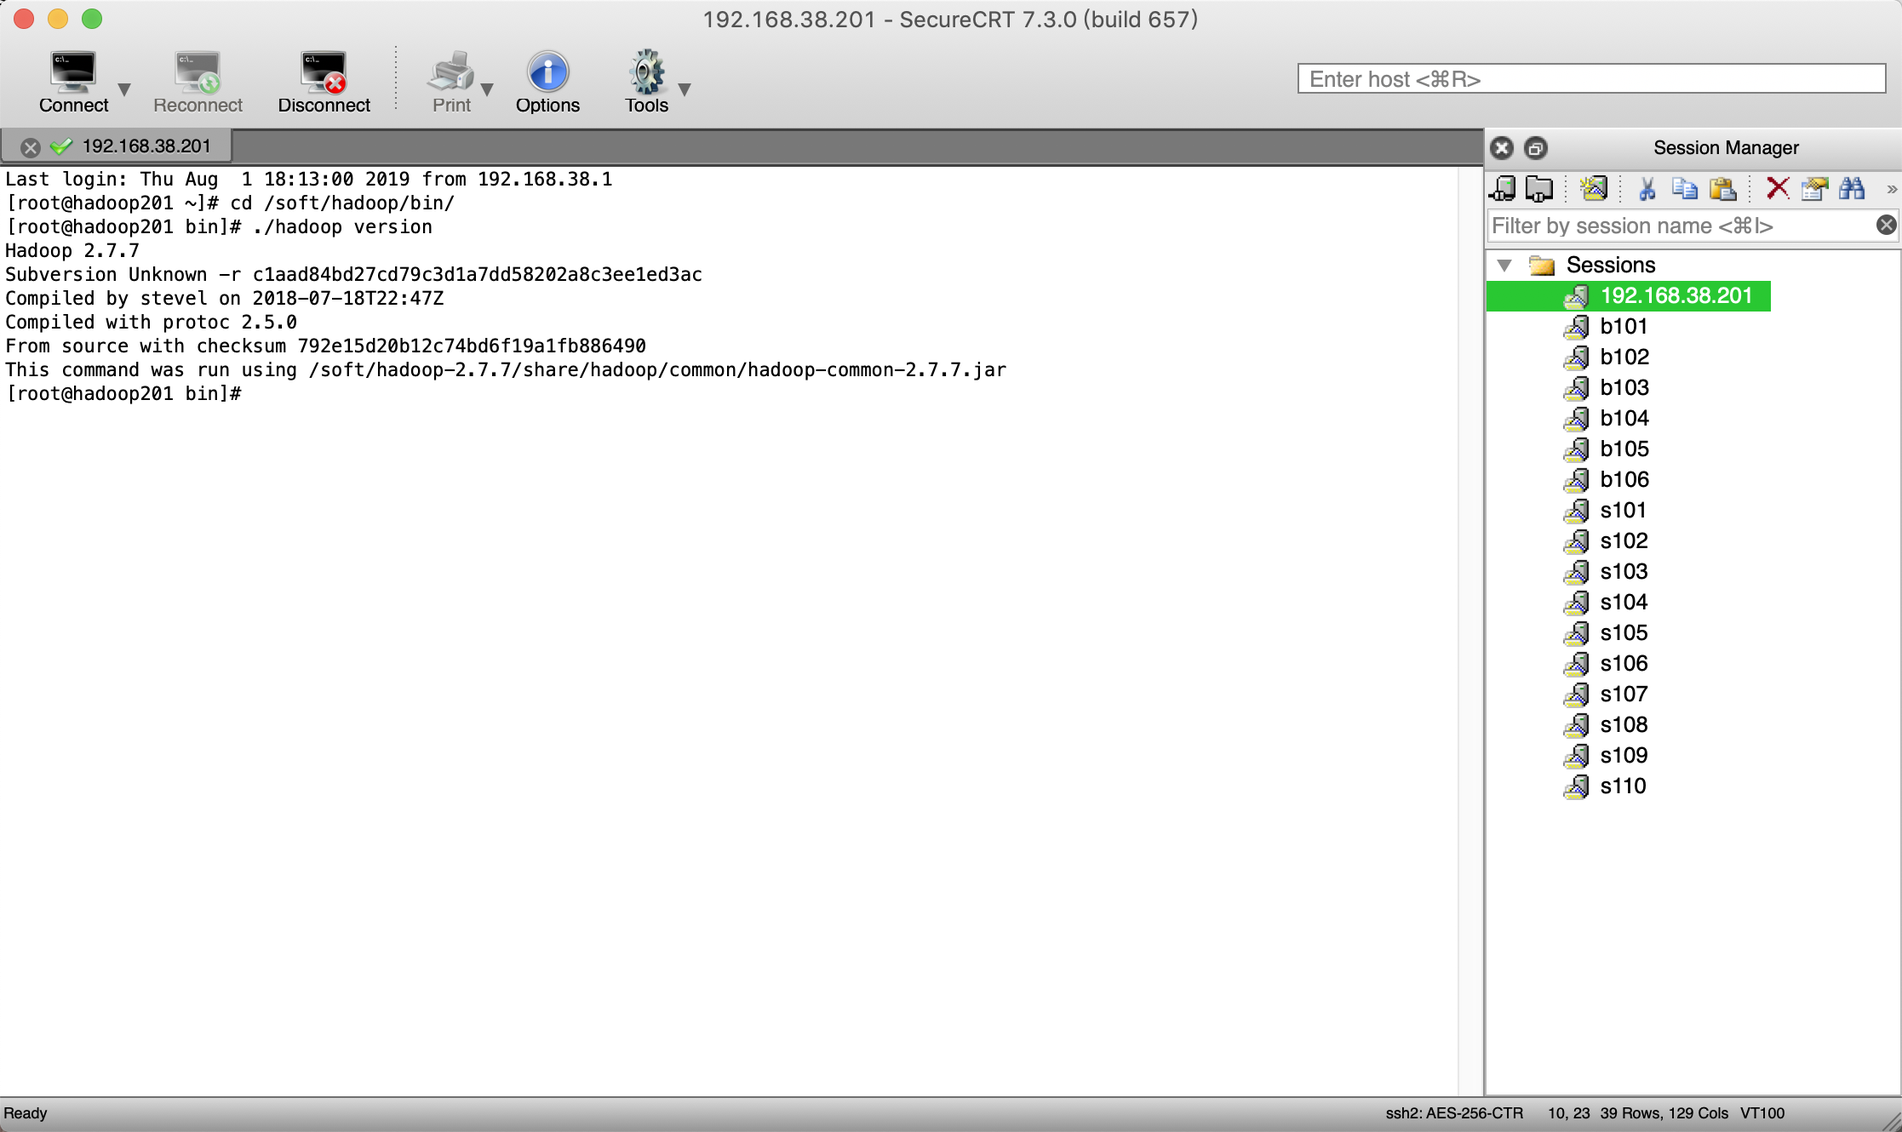
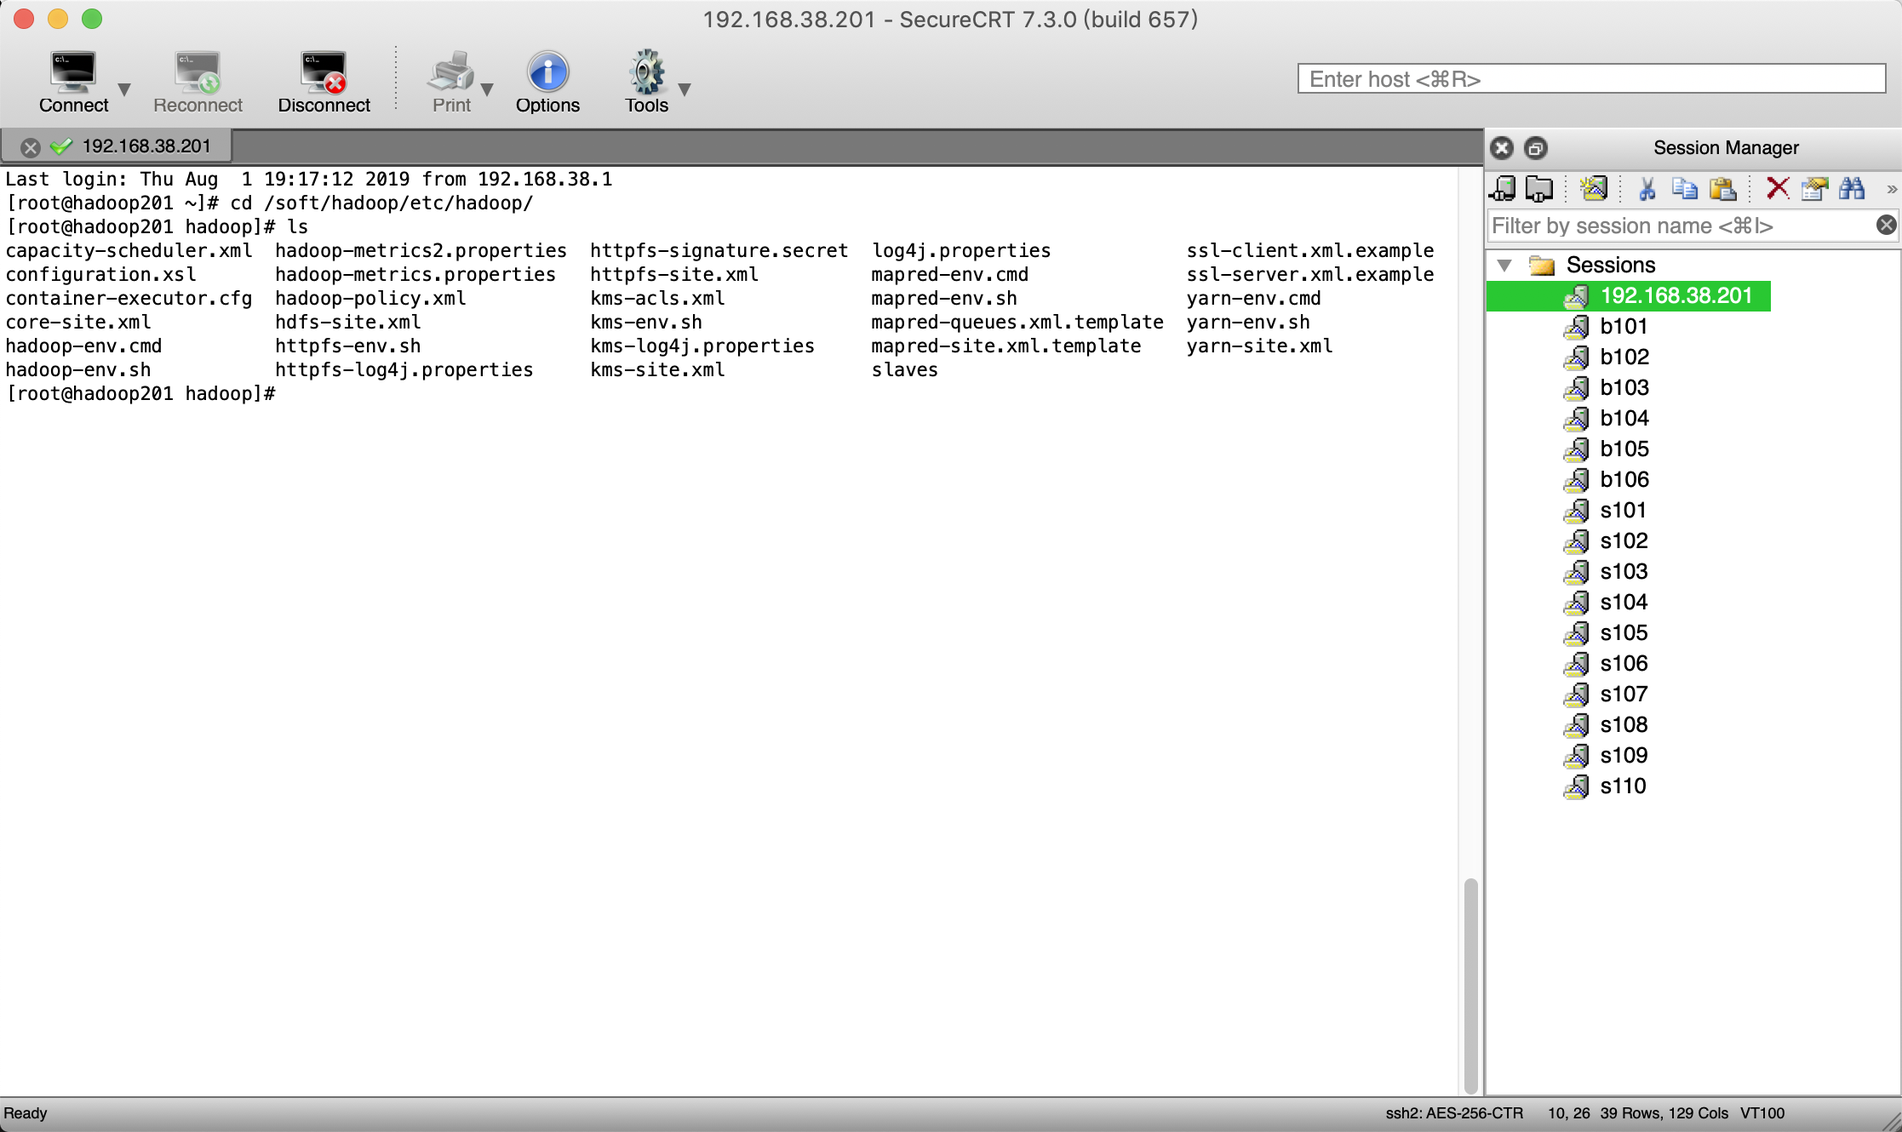
Site updated: 2019-09-05 21:20:32

Changed region(s): [[0.0, 0.1541, 0.7722, 0.3699], [0.7722, 0.7707, 0.803, 0.9556], [0.2162, 0.1541, 0.278, 0.185]]

diff --git a/2019/09/04/hadoop-4/index.html b/2019/09/04/hadoop-4/index.html
@@ -107,13 +107,13 @@
 
 
 
-<meta name="description" content="大数据处理平台Hadoop（四）Hadoop安装、单机模式及伪分布式通过上一章的介绍和学习，相信读者朋友们已经掌握了怎么用自己的电脑登录服务器，我们懂得了远程登录工具的作用，还有的是我们还进行了节点的jdk配置，使我们的服务器更加的完善了，下面这一章我们将来介绍一下hadoop的安装以及单机调试模式，伪分布式这几个点。同样的，你搭建的4台机器也要安装上hadoop环境。">
+<meta name="description" content="大数据处理平台Hadoop（四）Hadoop安装、单机模式及伪分布模式搭建通过上一章的介绍和学习，相信读者朋友们已经掌握了怎么用自己的电脑登录服务器，我们懂得了远程登录工具的作用，还有的是我们还进行了节点的jdk配置，使我们的服务器更加的完善了，下面这一章我们将来介绍一下hadoop的安装以及单机调试模式，伪分布式这几个点。同样的，你搭建的4台机器也要安装上hadoop环境。">
 <meta name="keywords" content="hadoop">
 <meta property="og:type" content="article">
 <meta property="og:title" content="hadoop-4">
 <meta property="og:url" content="https://chen-tzliang.github.io/2019/09/04/hadoop-4/index.html">
 <meta property="og:site_name" content="Czl的博客">
-<meta property="og:description" content="大数据处理平台Hadoop（四）Hadoop安装、单机模式及伪分布式通过上一章的介绍和学习，相信读者朋友们已经掌握了怎么用自己的电脑登录服务器，我们懂得了远程登录工具的作用，还有的是我们还进行了节点的jdk配置，使我们的服务器更加的完善了，下面这一章我们将来介绍一下hadoop的安装以及单机调试模式，伪分布式这几个点。同样的，你搭建的4台机器也要安装上hadoop环境。">
+<meta property="og:description" content="大数据处理平台Hadoop（四）Hadoop安装、单机模式及伪分布模式搭建通过上一章的介绍和学习，相信读者朋友们已经掌握了怎么用自己的电脑登录服务器，我们懂得了远程登录工具的作用，还有的是我们还进行了节点的jdk配置，使我们的服务器更加的完善了，下面这一章我们将来介绍一下hadoop的安装以及单机调试模式，伪分布式这几个点。同样的，你搭建的4台机器也要安装上hadoop环境。">
 <meta property="og:locale" content="zh-Hans">
 <meta property="og:image" content="https://chen-tzliang.github.io/about/hadoop4/1.png">
 <meta property="og:image" content="https://chen-tzliang.github.io/about/hadoop4/2.png">
@@ -123,10 +123,10 @@
 <meta property="og:image" content="https://chen-tzliang.github.io/about/hadoop4/7.png">
 <meta property="og:image" content="https://chen-tzliang.github.io/about/hadoop4/8.png">
 <meta property="og:image" content="https://chen-tzliang.github.io/about/hadoop4/9.png">
-<meta property="og:updated_time" content="2019-09-05T12:40:23.227Z">
+<meta property="og:updated_time" content="2019-09-05T13:18:10.458Z">
 <meta name="twitter:card" content="summary">
 <meta name="twitter:title" content="hadoop-4">
-<meta name="twitter:description" content="大数据处理平台Hadoop（四）Hadoop安装、单机模式及伪分布式通过上一章的介绍和学习，相信读者朋友们已经掌握了怎么用自己的电脑登录服务器，我们懂得了远程登录工具的作用，还有的是我们还进行了节点的jdk配置，使我们的服务器更加的完善了，下面这一章我们将来介绍一下hadoop的安装以及单机调试模式，伪分布式这几个点。同样的，你搭建的4台机器也要安装上hadoop环境。">
+<meta name="twitter:description" content="大数据处理平台Hadoop（四）Hadoop安装、单机模式及伪分布模式搭建通过上一章的介绍和学习，相信读者朋友们已经掌握了怎么用自己的电脑登录服务器，我们懂得了远程登录工具的作用，还有的是我们还进行了节点的jdk配置，使我们的服务器更加的完善了，下面这一章我们将来介绍一下hadoop的安装以及单机调试模式，伪分布式这几个点。同样的，你搭建的4台机器也要安装上hadoop环境。">
 <meta name="twitter:image" content="https://chen-tzliang.github.io/about/hadoop4/1.png">
 
 
@@ -388,7 +388,7 @@
       
 
       
-        <h1 id="大数据处理平台Hadoop（四）"><a href="#大数据处理平台Hadoop（四）" class="headerlink" title="大数据处理平台Hadoop（四）"></a>大数据处理平台Hadoop（四）</h1><h2 id="Hadoop安装、单机模式及伪分布式"><a href="#Hadoop安装、单机模式及伪分布式" class="headerlink" title="Hadoop安装、单机模式及伪分布式"></a>Hadoop安装、单机模式及伪分布式</h2><p>通过上一章的介绍和学习，相信读者朋友们已经掌握了怎么用自己的电脑登录服务器，我们懂得了远程登录工具的作用，还有的是我们还进行了节点的jdk配置，使我们的服务器更加的完善了，下面这一章我们将来介绍一下hadoop的安装以及单机调试模式，伪分布式这几个点。同样的，你搭建的4台机器也要安装上hadoop环境。<a id="more"></a></p>
+        <h1 id="大数据处理平台Hadoop（四）"><a href="#大数据处理平台Hadoop（四）" class="headerlink" title="大数据处理平台Hadoop（四）"></a>大数据处理平台Hadoop（四）</h1><h2 id="Hadoop安装、单机模式及伪分布模式搭建"><a href="#Hadoop安装、单机模式及伪分布模式搭建" class="headerlink" title="Hadoop安装、单机模式及伪分布模式搭建"></a>Hadoop安装、单机模式及伪分布模式搭建</h2><p>通过上一章的介绍和学习，相信读者朋友们已经掌握了怎么用自己的电脑登录服务器，我们懂得了远程登录工具的作用，还有的是我们还进行了节点的jdk配置，使我们的服务器更加的完善了，下面这一章我们将来介绍一下hadoop的安装以及单机调试模式，伪分布式这几个点。同样的，你搭建的4台机器也要安装上hadoop环境。<a id="more"></a></p>
 <h3 id="hadoop的安装"><a href="#hadoop的安装" class="headerlink" title="hadoop的安装"></a>hadoop的安装</h3><p>在安装hadoop之前，我们需要准备好一些软件包，这里由于我学习的时候用的hadoop版本比较低，所以建议读者根据需要下载新的版本，不同的版本可能增加了不同的一些新的属性，这里在hadoop的安装时会给出hadoop软件包的下载网址，显然hadoop也是apache的产品。</p>
 <h3 id="hadoop的安装-1"><a href="#hadoop的安装-1" class="headerlink" title="hadoop的安装"></a>hadoop的安装</h3><p>1.下载hadoop-x.y.z.tar.gz</p>
 <p>网址：<a href="https://hadoop.apache.org/releases.html" target="_blank" rel="noopener">https://hadoop.apache.org/releases.html</a></p>
@@ -459,9 +459,20 @@
 <h3 id="hadoop的伪分布模式"><a href="#hadoop的伪分布模式" class="headerlink" title="hadoop的伪分布模式"></a>hadoop的伪分布模式</h3><p>运行：伪分布模式这种模式也是在一台单机上运行，但用不同的Java进程模仿分布式运行中的各类结点。</p>
 <p>配置：伪分布模式在“单节点集群”上运行Hadoop，其中所有的守护进程都运行在同一台机器上。</p>
 <p>交互：伪分布模式在单机模式之上增加了代码调试功能，允许你检查内存使用情况，HDFS输入输出，以及其他的守护进程交互</p>
-<h3 id="hadoop伪分布式的搭建"><a href="#hadoop伪分布式的搭建" class="headerlink" title="hadoop伪分布式的搭建"></a>hadoop伪分布式的搭建</h3><p>1.进入hadoop的配置目录<br><figure class="highlight plain"><table><tr><td class="gutter"><pre><span class="line">1</span><br><span class="line">2</span><br></pre></td><td class="code"><pre><span class="line">$&gt;cd /soft/hadoop/etc/hadoop</span><br><span class="line">$&gt;ls</span><br></pre></td></tr></table></figure></p>
+<h3 id="hadoop伪分布式的搭建-1"><a href="#hadoop伪分布式的搭建-1" class="headerlink" title="hadoop伪分布式的搭建(1)"></a>hadoop伪分布式的搭建(1)</h3><p>1.进入hadoop的配置目录<br><figure class="highlight plain"><table><tr><td class="gutter"><pre><span class="line">1</span><br><span class="line">2</span><br></pre></td><td class="code"><pre><span class="line">$&gt;cd /soft/hadoop/etc/hadoop</span><br><span class="line">$&gt;ls</span><br></pre></td></tr></table></figure></p>
 <p>2.配置core-site.xml</p>
+<p>core-site.xml文件是集群的全局参数，该文件是用于用于定义系统级别的参数，如HDFS URL 、Hadoop的临时目录等，下面我们配置的伪分布式只配置hdfs的url，至于其他的全局参数用的是默认的值。<br><figure class="highlight plain"><table><tr><td class="gutter"><pre><span class="line">1</span><br></pre></td><td class="code"><pre><span class="line">$&gt;nano core-site.xml</span><br></pre></td></tr></table></figure></p>
+<figure class="highlight plain"><table><tr><td class="gutter"><pre><span class="line">1</span><br><span class="line">2</span><br><span class="line">3</span><br><span class="line">4</span><br><span class="line">5</span><br><span class="line">6</span><br><span class="line">7</span><br></pre></td><td class="code"><pre><span class="line">&lt;?xml version=&quot;1.0&quot;?&gt;</span><br><span class="line">&lt;configuration&gt;</span><br><span class="line">	&lt;property&gt;</span><br><span class="line">		&lt;name&gt;fs.defaultFS&lt;/name&gt;</span><br><span class="line">		&lt;value&gt;hdfs://localhost/&lt;/value&gt;</span><br><span class="line">	&lt;/property&gt;</span><br><span class="line">&lt;/configuration&gt;</span><br></pre></td></tr></table></figure>
 <p>3.配置hdfs-site.xml</p>
+<p>hdfs-site.xml文件配置的是hdfs，该文件的配置项是名称节点和数据节点的存放位置、文件副本的个数、文件的读取权限等。下面我们对这个文件进行配置，这里我们只设置副本的数目，并设置为1，其他的使用默认值。<br><figure class="highlight plain"><table><tr><td class="gutter"><pre><span class="line">1</span><br></pre></td><td class="code"><pre><span class="line">$&gt;nano hdfs-site.xml</span><br></pre></td></tr></table></figure></p>
+<figure class="highlight plain"><table><tr><td class="gutter"><pre><span class="line">1</span><br><span class="line">2</span><br><span class="line">3</span><br><span class="line">4</span><br><span class="line">5</span><br><span class="line">6</span><br><span class="line">7</span><br></pre></td><td class="code"><pre><span class="line">&lt;?xml version=&quot;1.0&quot;?&gt;</span><br><span class="line">&lt;configuration&gt;</span><br><span class="line">	&lt;property&gt;</span><br><span class="line">		&lt;name&gt;dfs.replication&lt;/name&gt;</span><br><span class="line">		&lt;value&gt;1&lt;/value&gt;</span><br><span class="line">	&lt;/property&gt;</span><br><span class="line">&lt;/configuration&gt;</span><br></pre></td></tr></table></figure>
+<p>4.配置mapred-site.xml</p>
+<p>mapred-site.xml是Mapreduce参数，他的主要内容包括JobHistory Server和应用程序参数两部分，如reduce任务的默认个数、任务所能够使用内存的默认上下限等。这里我们设置yarn的为资源管理框架。<br><figure class="highlight plain"><table><tr><td class="gutter"><pre><span class="line">1</span><br><span class="line">2</span><br></pre></td><td class="code"><pre><span class="line">$&gt;cp mapred-site.xml.template mapred-site.xml</span><br><span class="line">$&gt;nano mapred-site.xml</span><br></pre></td></tr></table></figure></p>
+<figure class="highlight plain"><table><tr><td class="gutter"><pre><span class="line">1</span><br><span class="line">2</span><br><span class="line">3</span><br><span class="line">4</span><br><span class="line">5</span><br><span class="line">6</span><br><span class="line">7</span><br></pre></td><td class="code"><pre><span class="line">&lt;?xml version=&quot;1.0&quot;?&gt;</span><br><span class="line">&lt;configuration&gt;</span><br><span class="line">	&lt;property&gt;</span><br><span class="line">		&lt;name&gt;mapreduce.framework.name&lt;/name&gt;</span><br><span class="line">		&lt;value&gt;yarn&lt;/value&gt;</span><br><span class="line">	&lt;/property&gt;</span><br><span class="line">&lt;/configuration&gt;</span><br></pre></td></tr></table></figure>
+<p>5.配置yarn-site.xml</p>
+<p>yarn-site.xml是集群资源管理系统参数，他的主要内容是配置ResourceManager ，nodeManager的通信端口，web监控端口等。<br><figure class="highlight plain"><table><tr><td class="gutter"><pre><span class="line">1</span><br></pre></td><td class="code"><pre><span class="line">$&gt;nano yarn-site.xml</span><br></pre></td></tr></table></figure></p>
+<figure class="highlight plain"><table><tr><td class="gutter"><pre><span class="line">1</span><br><span class="line">2</span><br><span class="line">3</span><br><span class="line">4</span><br><span class="line">5</span><br><span class="line">6</span><br><span class="line">7</span><br><span class="line">8</span><br><span class="line">9</span><br><span class="line">10</span><br><span class="line">11</span><br></pre></td><td class="code"><pre><span class="line">&lt;?xml version=&quot;1.0&quot;?&gt;</span><br><span class="line">&lt;configuration&gt;</span><br><span class="line">	&lt;property&gt;</span><br><span class="line">		&lt;name&gt;yarn.resourcemanager.hostname&lt;/name&gt;</span><br><span class="line">		&lt;value&gt;localhost&lt;/value&gt;</span><br><span class="line">	&lt;/property&gt;</span><br><span class="line">	&lt;property&gt;</span><br><span class="line">		&lt;name&gt;yarn.nodemanager.aux-services&lt;/name&gt;</span><br><span class="line">		&lt;value&gt;mapreduce_shuffle&lt;/value&gt;</span><br><span class="line">	&lt;/property&gt;</span><br><span class="line">&lt;/configuration&gt;</span><br></pre></td></tr></table></figure>
+<p>这一篇文章我们讲解了hadoop的安装，单机模式及伪分布式的一部分xml的配置，当然伪分布式还没有配置完成，下一章将继续讲解伪分布式的搭建，这一章读者朋友们可以先搭建后伪分布式的一小部分，下一章将进行完整的伪分布式的搭建和最实用的完全分布式的搭建，这一章就先在这里结束，更多精彩内容请留意下一章。</p>
 
       
     </div>
@@ -482,7 +493,7 @@
   <p><span>本文标题:</span><a href="/2019/09/04/hadoop-4/">hadoop-4</a></p>
   <p><span>文章作者:</span><a href="/" title="访问 陈紫良 的个人博客">陈紫良</a></p>
   <p><span>发布时间:</span>2019年09月04日 - 10:38</p>
-  <p><span>最后更新:</span>2019年09月05日 - 20:40</p>
+  <p><span>最后更新:</span>2019年09月05日 - 21:18</p>
   <p><span>原始链接:</span><a href="/2019/09/04/hadoop-4/" title="hadoop-4">https://chen-tzliang.github.io/2019/09/04/hadoop-4/</a>
     <span class="copy-path" title="点击复制文章链接"><i class="fa fa-clipboard" data-clipboard-text="https://chen-tzliang.github.io/2019/09/04/hadoop-4/" aria-label="复制成功！"></i></span>
   </p>
@@ -712,7 +723,7 @@ var jiathis_config={
             
 
             
-              <div class="post-toc-content"><ol class="nav"><li class="nav-item nav-level-1"><a class="nav-link" href="#大数据处理平台Hadoop（四）"><span class="nav-text">大数据处理平台Hadoop（四）</span></a><ol class="nav-child"><li class="nav-item nav-level-2"><a class="nav-link" href="#Hadoop安装、单机模式及伪分布式"><span class="nav-text">Hadoop安装、单机模式及伪分布式</span></a><ol class="nav-child"><li class="nav-item nav-level-3"><a class="nav-link" href="#hadoop的安装"><span class="nav-text">hadoop的安装</span></a></li><li class="nav-item nav-level-3"><a class="nav-link" href="#hadoop的安装-1"><span class="nav-text">hadoop的安装</span></a></li><li class="nav-item nav-level-3"><a class="nav-link" href="#hadoop的单机模式"><span class="nav-text">hadoop的单机模式</span></a></li><li class="nav-item nav-level-3"><a class="nav-link" href="#hadoop单机模式搭建"><span class="nav-text">hadoop单机模式搭建</span></a></li><li class="nav-item nav-level-3"><a class="nav-link" href="#hadoop的伪分布模式"><span class="nav-text">hadoop的伪分布模式</span></a></li><li class="nav-item nav-level-3"><a class="nav-link" href="#hadoop伪分布式的搭建"><span class="nav-text">hadoop伪分布式的搭建</span></a></li></ol></li></ol></li></ol></div>
+              <div class="post-toc-content"><ol class="nav"><li class="nav-item nav-level-1"><a class="nav-link" href="#大数据处理平台Hadoop（四）"><span class="nav-text">大数据处理平台Hadoop（四）</span></a><ol class="nav-child"><li class="nav-item nav-level-2"><a class="nav-link" href="#Hadoop安装、单机模式及伪分布模式搭建"><span class="nav-text">Hadoop安装、单机模式及伪分布模式搭建</span></a><ol class="nav-child"><li class="nav-item nav-level-3"><a class="nav-link" href="#hadoop的安装"><span class="nav-text">hadoop的安装</span></a></li><li class="nav-item nav-level-3"><a class="nav-link" href="#hadoop的安装-1"><span class="nav-text">hadoop的安装</span></a></li><li class="nav-item nav-level-3"><a class="nav-link" href="#hadoop的单机模式"><span class="nav-text">hadoop的单机模式</span></a></li><li class="nav-item nav-level-3"><a class="nav-link" href="#hadoop单机模式搭建"><span class="nav-text">hadoop单机模式搭建</span></a></li><li class="nav-item nav-level-3"><a class="nav-link" href="#hadoop的伪分布模式"><span class="nav-text">hadoop的伪分布模式</span></a></li><li class="nav-item nav-level-3"><a class="nav-link" href="#hadoop伪分布式的搭建-1"><span class="nav-text">hadoop伪分布式的搭建(1)</span></a></li></ol></li></ol></li></ol></div>
             
 
           </div>

diff --git a/index.html b/index.html
@@ -381,7 +381,7 @@
 
       
         
-          <h1 id="大数据处理平台Hadoop（四）"><a href="#大数据处理平台Hadoop（四）" class="headerlink" title="大数据处理平台Hadoop（四）"></a>大数据处理平台Hadoop（四）</h1><h2 id="Hadoop安装、单机模式及伪分布式"><a href="#Hadoop安装、单机模式及伪分布式" class="headerlink" title="Hadoop安装、单机模式及伪分布式"></a>Hadoop安装、单机模式及伪分布式</h2><p>通过上一章的介绍和学习，相信读者朋友们已经掌握了怎么用自己的电脑登录服务器，我们懂得了远程登录工具的作用，还有的是我们还进行了节点的jdk配置，使我们的服务器更加的完善了，下面这一章我们将来介绍一下hadoop的安装以及单机调试模式，伪分布式这几个点。同样的，你搭建的4台机器也要安装上hadoop环境。
+          <h1 id="大数据处理平台Hadoop（四）"><a href="#大数据处理平台Hadoop（四）" class="headerlink" title="大数据处理平台Hadoop（四）"></a>大数据处理平台Hadoop（四）</h1><h2 id="Hadoop安装、单机模式及伪分布模式搭建"><a href="#Hadoop安装、单机模式及伪分布模式搭建" class="headerlink" title="Hadoop安装、单机模式及伪分布模式搭建"></a>Hadoop安装、单机模式及伪分布模式搭建</h2><p>通过上一章的介绍和学习，相信读者朋友们已经掌握了怎么用自己的电脑登录服务器，我们懂得了远程登录工具的作用，还有的是我们还进行了节点的jdk配置，使我们的服务器更加的完善了，下面这一章我们将来介绍一下hadoop的安装以及单机调试模式，伪分布式这几个点。同样的，你搭建的4台机器也要安装上hadoop环境。
           <!--noindex-->
           <div class="post-button text-center">
             <a class="btn" href="/2019/09/04/hadoop-4/#more" rel="contents">
